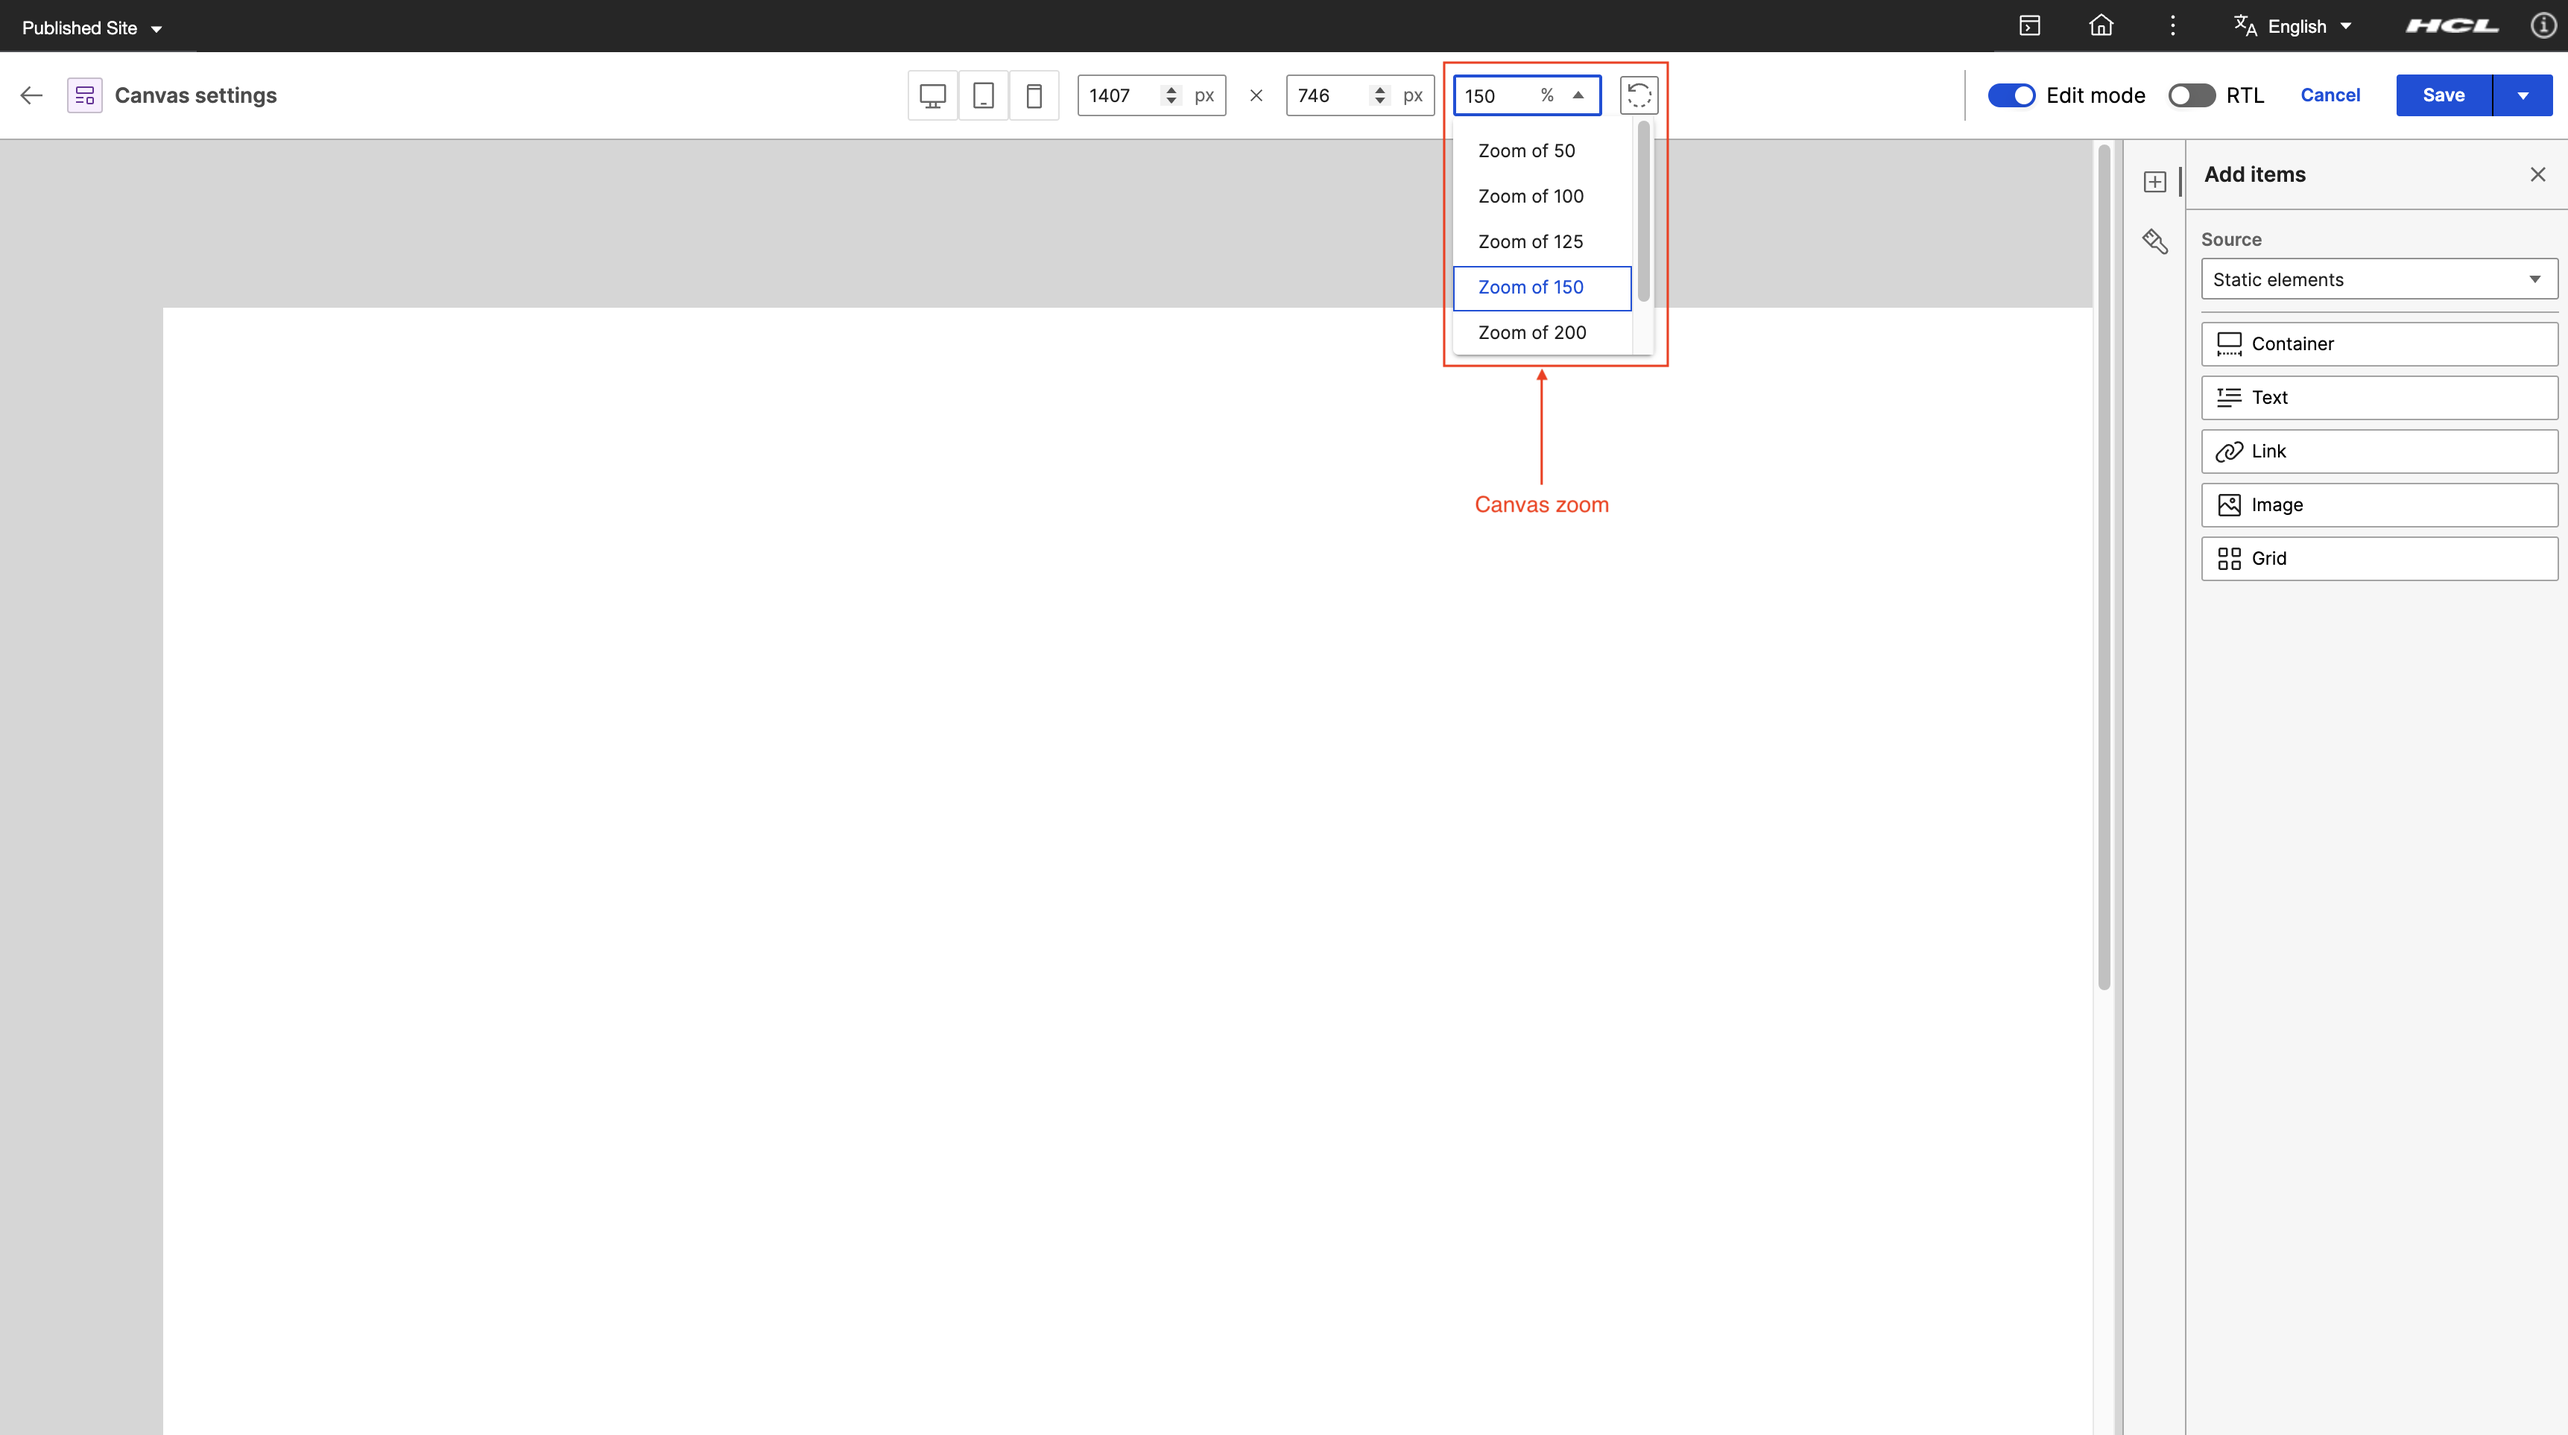
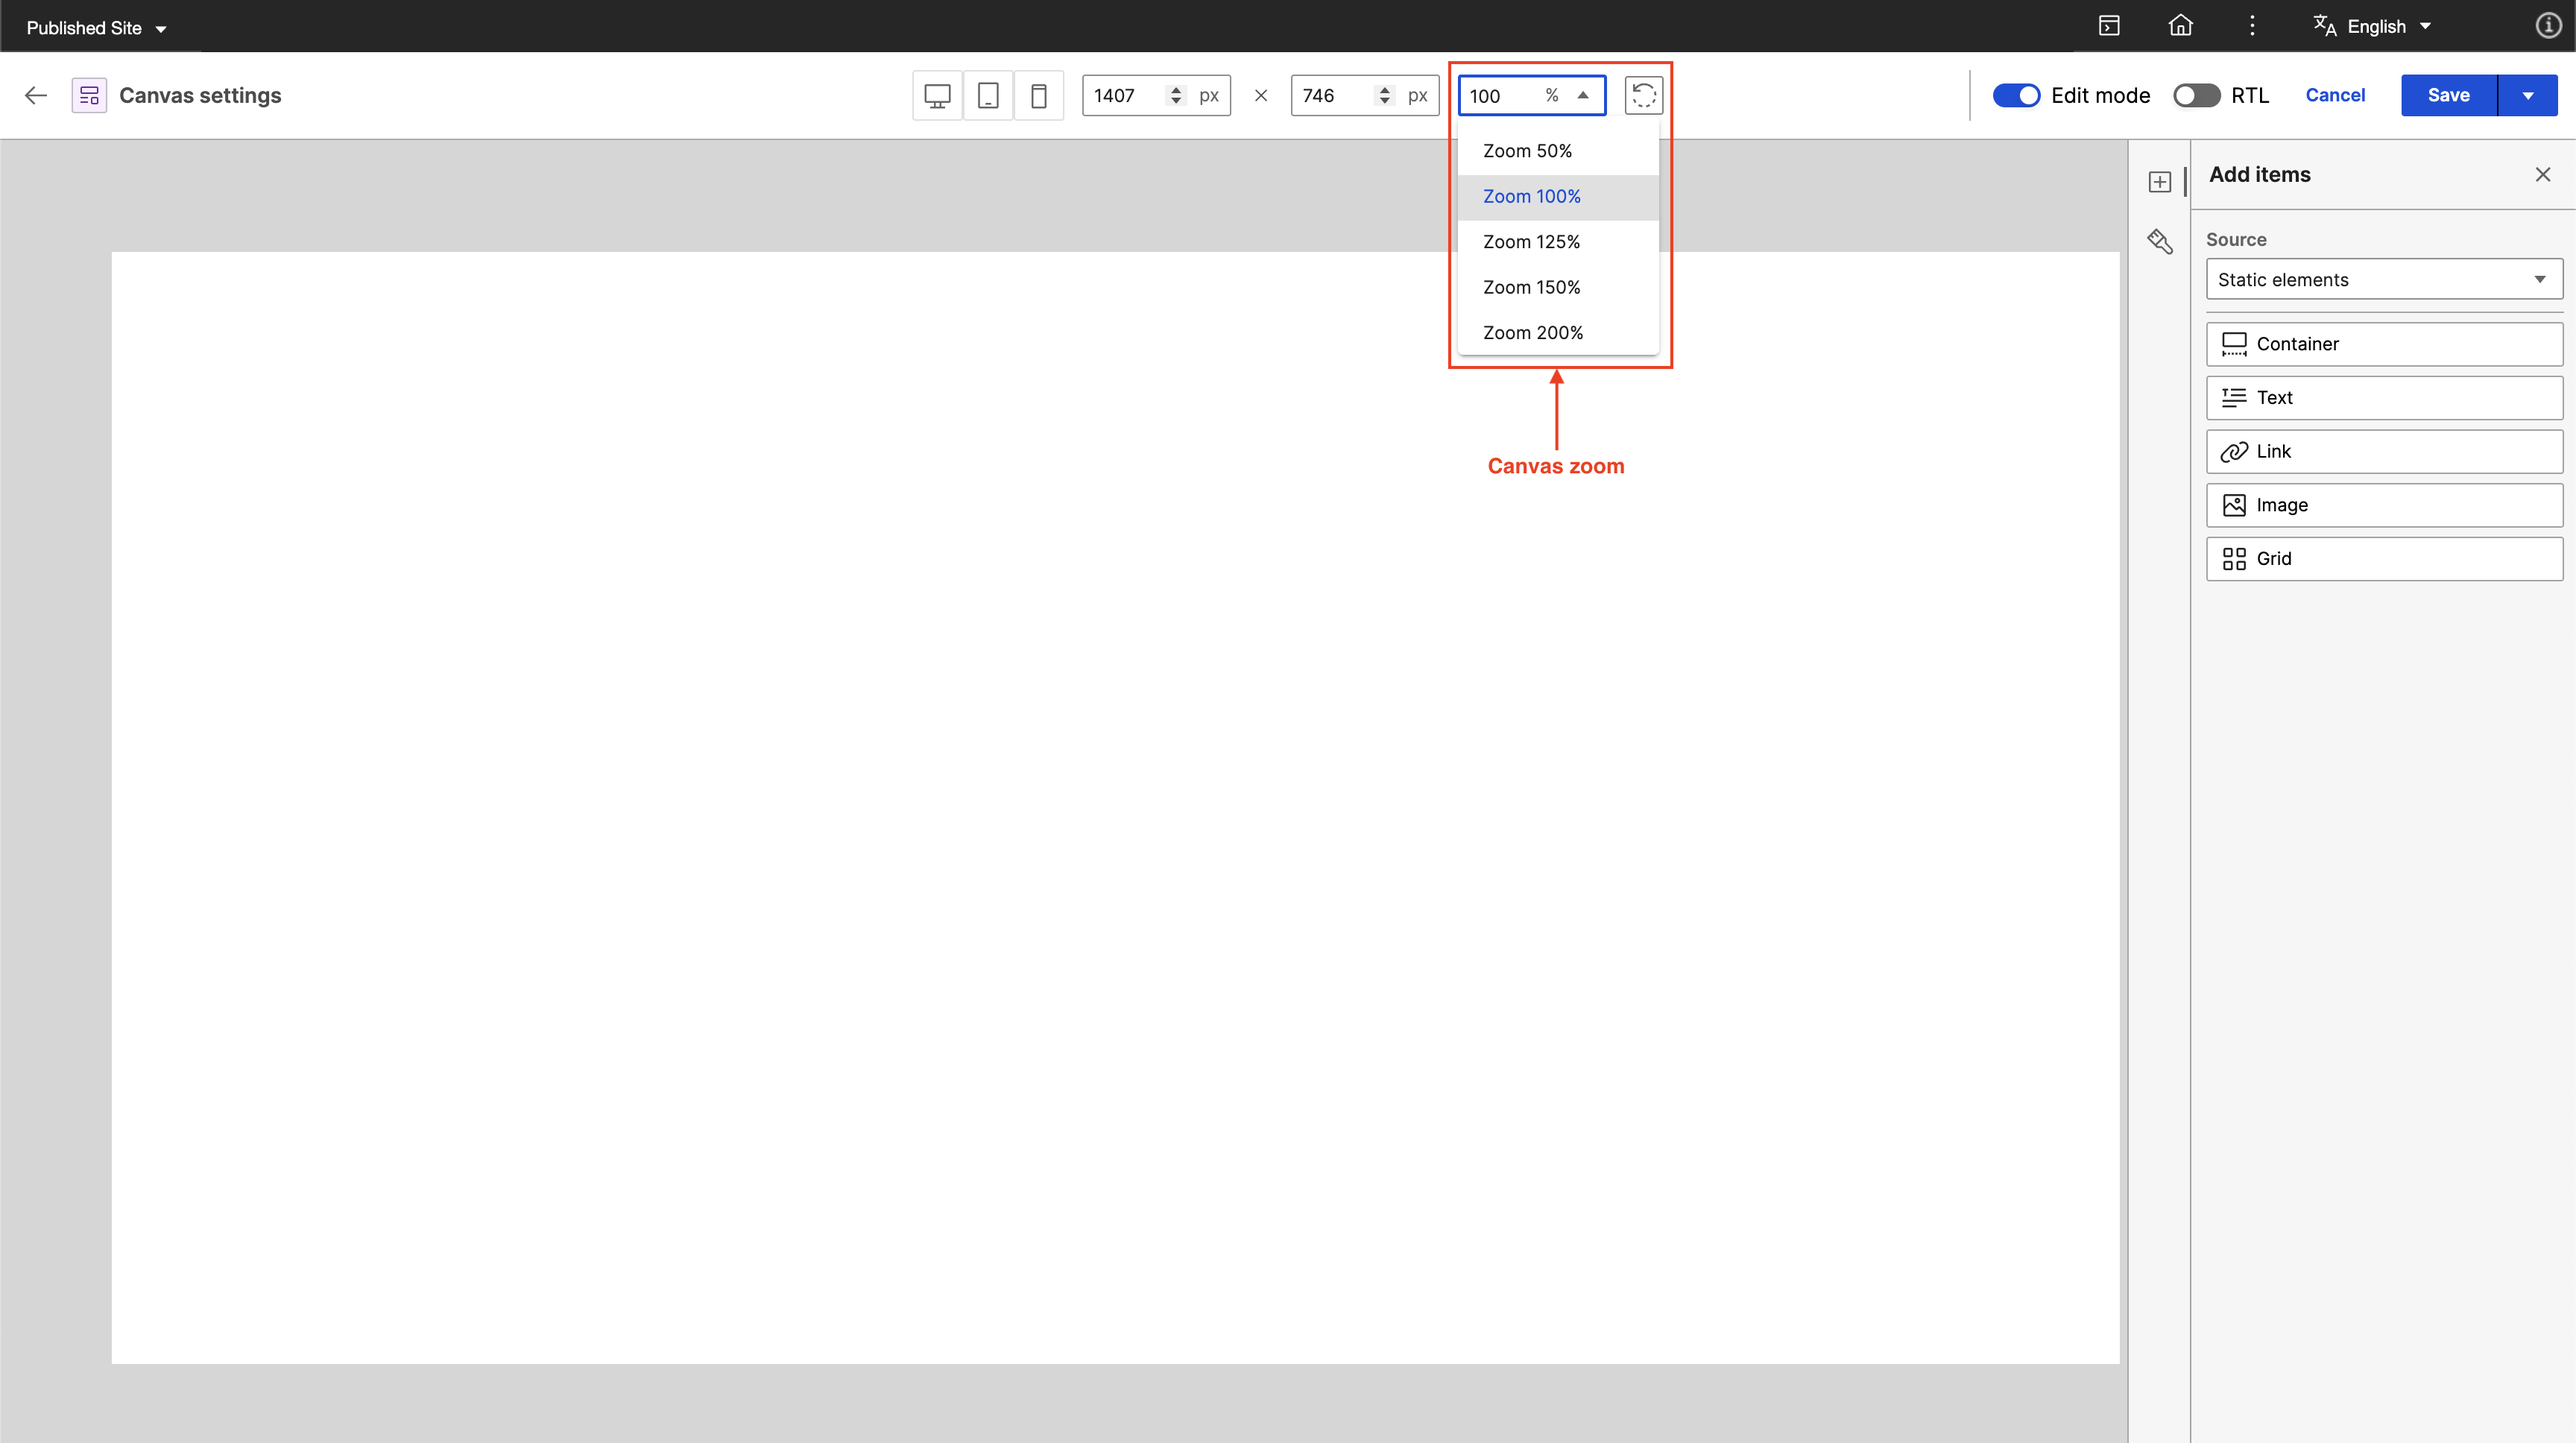
update based on comments PR. add fit to window screen shot

diff --git a/docs/manage_content/wcm_authoring/presentation_designer/usage/canvas_settings.md b/docs/manage_content/wcm_authoring/presentation_designer/usage/canvas_settings.md
@@ -1,6 +1,6 @@
 # Canvas settings in Presentation Designer
 
-Canvas settings allow users to configure various aspects of the presentation, including canvas dimensions, direction, zoom and rotate. This topic outlines the available settings in the ***Header*** section of the Presentation Designer.
+With Canvas settings, you can configure various aspects of the presentation such as canvas dimensions, direction, zoom level and orientation. This topic outlines the available settings in the ***Header*** section of the Presentation Designer.
 
 To access Presentation Designer and understand its user interface, refer to the **[Access Presentation Designer](../access/index.md)** topic.
 
@@ -8,35 +8,39 @@ To learn how to use the different user elements in Presentation Designer, refer 
 
 ## Canvas dimensions
 
-The Canvas dimensions in the Presentation Designer can set dimensions for width and height to adapt to specified size requirements. They can also select from pre-defined sizes such as desktop, tablet, and mobile.
+The Canvas dimensions in the Presentation Designer can set dimensions for width and height to adapt to specified size requirements. You can use Canvas dimensions to select from predefined sizes such as desktop, tablet, and mobile.
 
-See the following options featuring text inputs for width and height, along with predefined sizes (desktop, tablet, or mobile).
+In the following image, you can see the options for selecting predefined sizes (for example, desktop, tablet, or mobile) and for entering specific dimensions for width and height.
 
 ![](../../../../assets/HCL_Presentation_Designer_Canvas_Settings_Dimensions.png)
 
-1. ***Pre-defined sizes:*** Select to desktop, tablet, or mobile view.
-2. ***Width and Height:*** Adjust the width and height of the canvas.
+1. **Predefined sizes:** Select from the predefined sizes for desktop, tablet, or mobile.
+2. **Width and Height:** Enter specific dimensions to adjust the width and height of the canvas.
 
 ## Canvas rotate
 
-The Canvas Rotate in the Presentation Designer allows you to rotate the canvas.
+You can rotate the canvas using the **Canvas rotate** button in the Presentation Designer.
 
-See the following on how rotate canvas using rotate button.
+The following image shows the **Canvas rotate** button.
 
 ![](../../../../assets/HCL_Presentation_Designer_Canvas_Settings_Rotate.png)
 
-## Canvas direction
+## RTL toggle
 
-The Canvas direction in the Presentation Designer can switch canvas orientation from left-to-right (LTR) to right-to-left (RTL), and vice versa.
+You can switch the canvas orientation from left-to-right (LTR) to right-to-left (RTL), and vice versa using the **RTL** toggle in Presentation Designer.
 
-See the following option featuring RTL switch toggle for enabling LTR to RTL and vice-versa.
+The following image shows the **RTL** toggle. Use this to switch from LTR to RTL and vice-versa.
 
 ![](../../../../assets/HCL_Presentation_Designer_Canvas_Settings_Direction.png)
 
 ## Canvas zoom
 
-The Canvas zoom in the Presentation Designer that can zoom the canvas from a minimum of 50% up to 200%, or fit it to the window.
+With Canvas zoom, you can select how much you want to zoom in or out of the canvas. There is a minimum zoom level of 50% up to a maximum of 200%. You can also select a zoom level to fit your window.
 
-See the following option on how to zoom canvas using zoom selection.
+The following image shows the zoom level options in Presentation Designer.
 
 ![](../../../../assets/HCL_Presentation_Designer_Canvas_Settings_Zoom.png)
+
+The following image shows the fit to window as one of the example using zoom level options.
+
+![](../../../../assets/HCL_Presentation_Designer_Canvas_Settings_Zoom_Fit_to_Window.png)

diff --git a/docs/manage_content/wcm_authoring/presentation_designer/access/index.md b/docs/manage_content/wcm_authoring/presentation_designer/access/index.md
@@ -106,11 +106,11 @@ The Presentation Designer user interface is composed of three main sections:
 
 1. **Back** button. Use this to go back to the Authoring portlet. 
 2. Title of the presentation template.
-3. **Canvas dimensions** settings. Please refer to **[Canvas settings](../usage/canvas_settings/#canvas-dimensions)**.
-4. **Canvas zoom** selection. Please refer to **[Canvas settings](../usage/canvas_settings/#canvas-zoom)**.
-5. **Canvas rotate** button. Please refer to **[Canvas settings](../usage/canvas_settings#canvas-rotate)**.
+3. **Canvas dimensions** settings. For more information, see **[Canvas settings](../usage/canvas_settings/#canvas-dimensions)**.
+4. **Canvas zoom** selection. For more information, see **[Canvas settings](../usage/canvas_settings/#canvas-zoom)**.
+5. **Canvas rotate** button. For more information, see **[Canvas settings](../usage/canvas_settings#canvas-rotate)**.
 6. **Edit/Read mode** toggle. Use this to switch from Edit to Read mode or from Read to Edit mode.
-7. **Canvas direction** toggle. Please refer to **[Canvas settings](../usage/canvas_settings/#canvas-direction)**.
+7. **RTL** toggle. For more information, see **[Canvas settings](../usage/canvas_settings/#rtl-toggle)**.
 8. **Cancel** button. Use this to to cancel editing and go back to the Authoring portlet.
 9. **Save** button. Use this to save the presentation template or click the dropdown icon to **Save and Close**.
 
